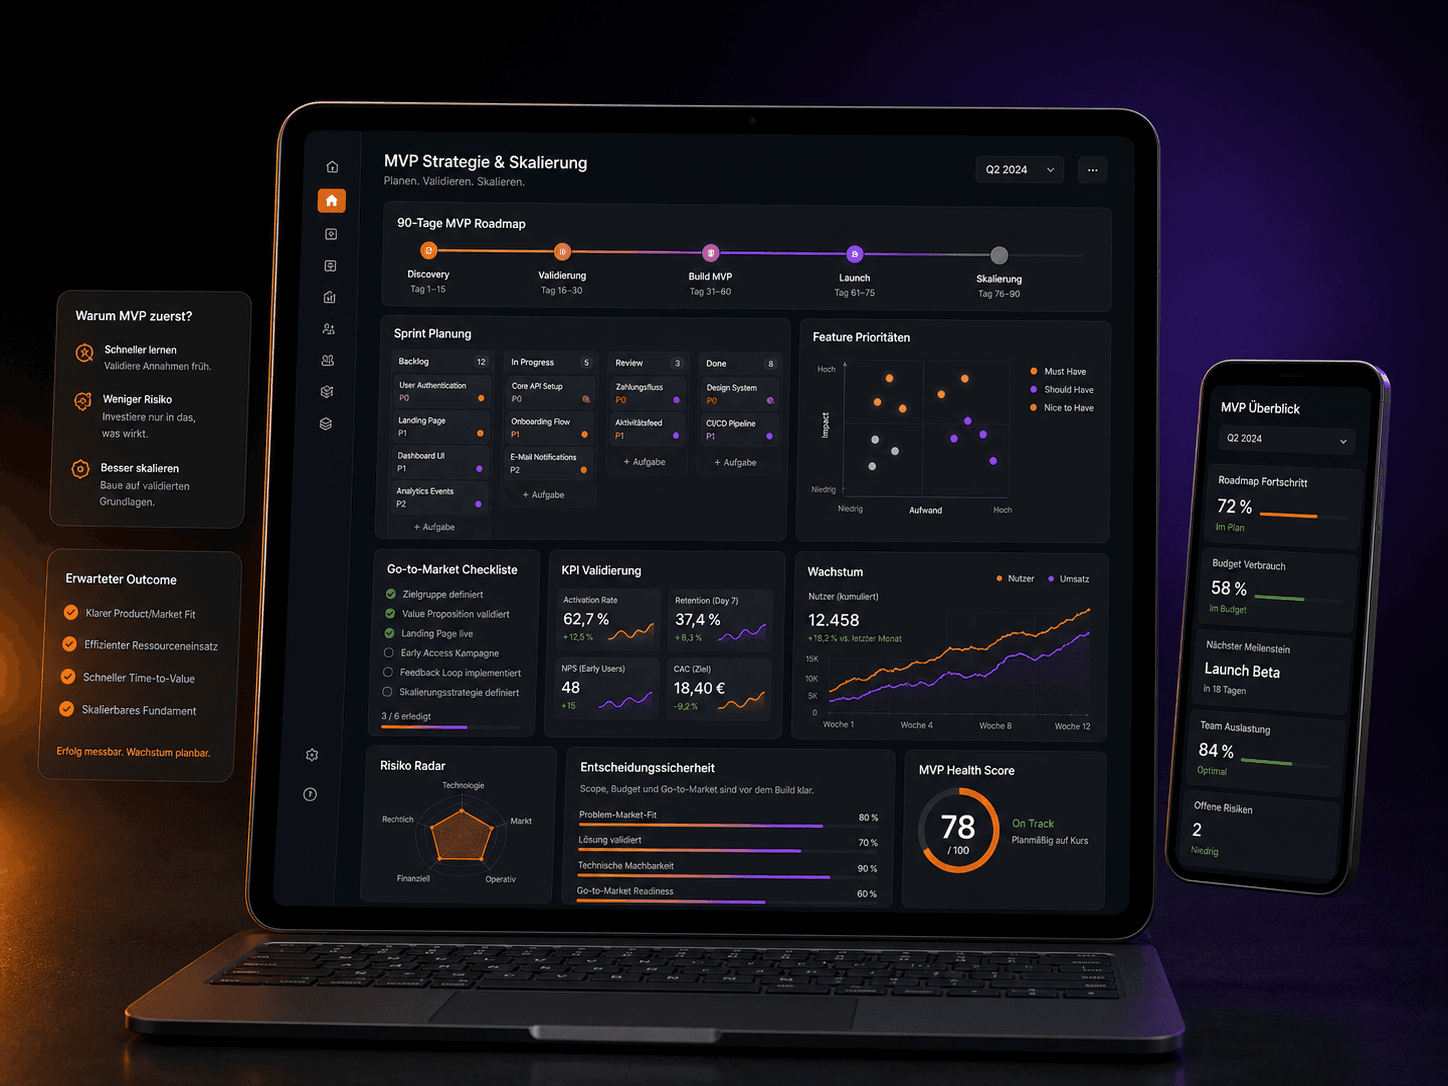
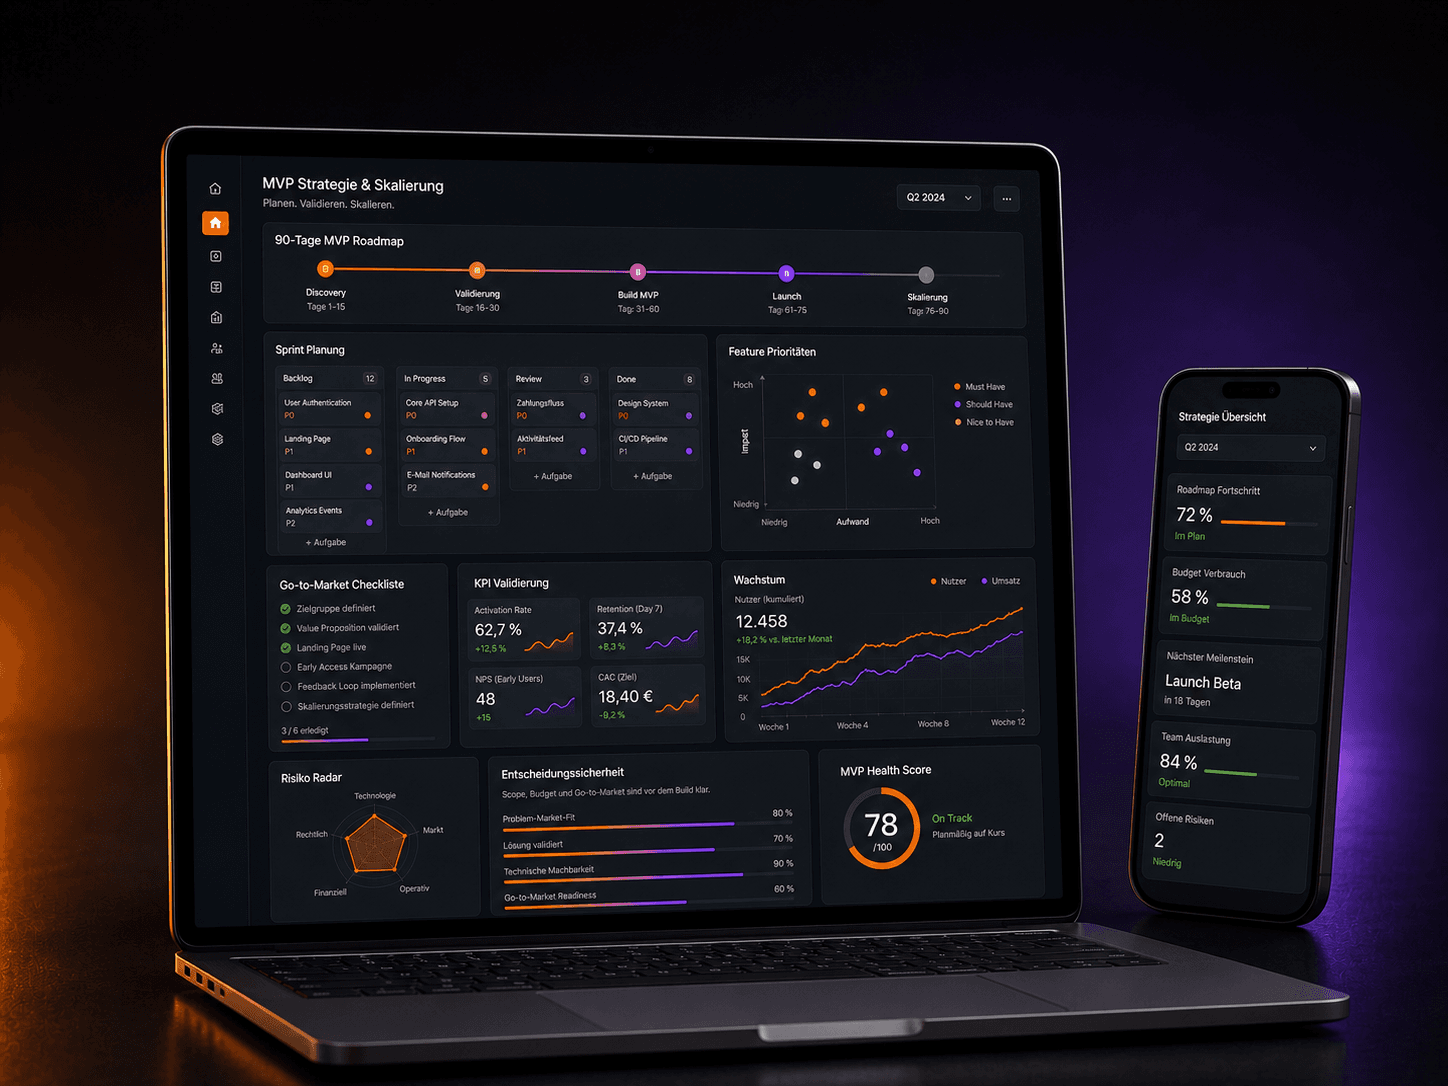
Deploy strategy visual fix

diff --git a/css/sections/feature-blocks.css b/css/sections/feature-blocks.css
@@ -60,11 +60,12 @@
 }
 
 .services__showcase-frame {
+    --showcase-frame-radius: var(--radius-card);
     position: relative;
     z-index: 1;
     width: 100%;
     aspect-ratio: 1672 / 941;
-    border-radius: var(--radius-card);
+    border-radius: var(--showcase-frame-radius);
     overflow: hidden;
     background: var(--surface-1);
     border: 1px solid var(--glass-border);
@@ -73,6 +74,18 @@
         inset 0 1px 0 rgba(255, 255, 255, 0.045);
     transform-style: preserve-3d;
     will-change: transform;
+    isolation: isolate;
+    clip-path: inset(0 round var(--showcase-frame-radius));
+    -webkit-mask-image: -webkit-radial-gradient(white, black);
+}
+
+.services__showcase-frame picture {
+    position: absolute;
+    inset: 0;
+    display: block;
+    overflow: hidden;
+    border-radius: inherit;
+    z-index: 2;
 }
 
 .services__showcase-frame img {
@@ -126,18 +139,31 @@
 }
 
 .feature-block__visual-frame {
+    --feature-visual-radius: var(--radius-card);
     position: relative;
     width: 100%;
     aspect-ratio: 4 / 3;
-    border-radius: var(--radius-card);
+    border-radius: var(--feature-visual-radius);
     overflow: hidden;
-    background: var(--surface-1);
+    background: #000000;
     border: 1px solid var(--glass-border);
     box-shadow:
         0 40px 80px -20px rgba(0, 0, 0, 0.7),
         inset 0 1px 0 rgba(255, 255, 255, 0.04);
     transform-style: preserve-3d;
     will-change: transform;
+    isolation: isolate;
+    clip-path: inset(0 round var(--feature-visual-radius));
+    -webkit-mask-image: -webkit-radial-gradient(white, black);
+}
+
+.feature-block__visual-frame picture {
+    position: absolute;
+    inset: 0;
+    display: block;
+    overflow: hidden;
+    border-radius: inherit;
+    z-index: 2;
 }
 
 .feature-block__visual-frame img {
@@ -239,9 +265,23 @@
         margin-right: -9px;
     }
 
-    .services__showcase-frame {
+    .services__showcase,
+    .feature-block__visual {
         border-radius: 20px;
+        background-color: #000000;
     }
 
-    .feature-block__visual-frame { aspect-ratio: 5 / 4; }
+    .services__showcase::before,
+    .feature-block__visual::before {
+        opacity: 0;
+    }
+
+    .services__showcase-frame {
+        --showcase-frame-radius: 20px;
+    }
+
+    .feature-block__visual-frame {
+        --feature-visual-radius: 20px;
+        aspect-ratio: 5 / 4;
+    }
 }

diff --git a/index.html b/index.html
@@ -1555,7 +1555,7 @@
                         <picture>
                             <source srcset="img/generated/home/feature-strategy-scale.webp" type="image/webp">
                             <img src="img/generated/home/feature-strategy-scale.png"
-                                 alt="Tablet-Mockup mit MVP-Roadmap, Feature-Priorisierung, Validierungs-KPIs und Health Score"
+                                 alt="Laptop- und Smartphone-Mockup mit MVP-Roadmap, Feature-Priorisierung, Validierungs-KPIs und Health Score"
                                  loading="lazy"
                                  width="1448"
                                  height="1086"